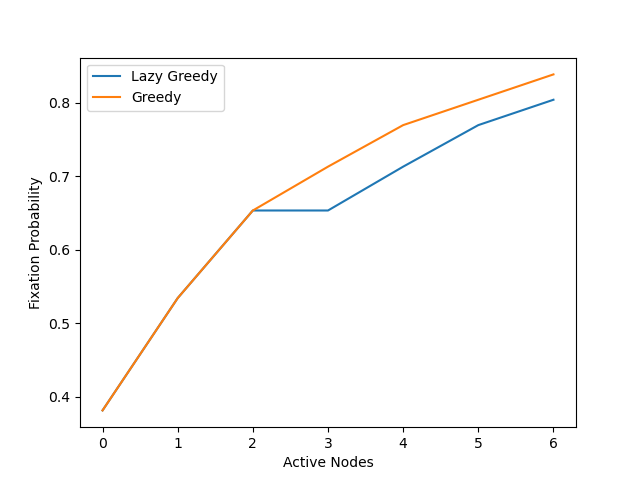
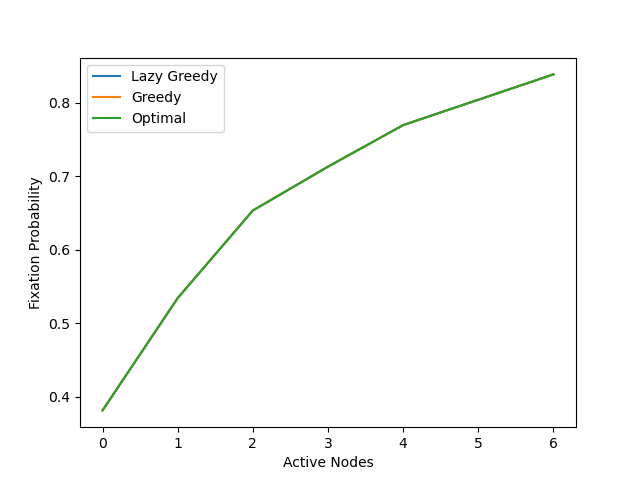
Setup experiments for comparing different fitneses for active node choice strategies for cycle graph

diff --git a/Experiment_circle.py b/Experiment_circle.py
@@ -290,14 +290,7 @@ def circle_experiments(graph_size,active_nodes,fitness,setup):
     return fixation_prob
 
 
-
-if __name__ == '__main__':
-    graph_size = 30
-    fitness = 5
-
-
-
-
+def compare_active_node_choosing_strategies(graph_size, fitness):
     setup_1 = []
     setup_2 = []
     setup_3 = []
@@ -379,3 +372,84 @@ if __name__ == '__main__':
     fixation = ["{0:10.50f}".format(x) for x in setup_3]
     f.write('Fixation probabilities: ' + ', '.join(fixation))
     f.write('\n')
+
+
+def fixation_prob_active_nodes(graph_size,setup,fitneses):
+    active_node_list = list(range(0,graph_size + 1))
+    before_time = time.time()
+    f = open('Circle_Graph_Experiments/cycle_fitness_experiment/cycle_experiments_f_' + str(fitneses)+ '_g_size_' + str(graph_size) + "_setup_" + str(setup.name) + '.txt', '+w')
+    for fitness in fitneses:
+        fixation_list = []
+        for i in range(0,graph_size + 1):
+            print('Fitness ' + str(fitness) + ' iteration ' + str(i) + ' of ' + str(graph_size))
+            fixation_prob = circle_experiments(graph_size,i,fitness,setup.value)
+            fixation_list.append(fixation_prob)
+
+        fixation = ["{0:10.50f}".format(x) for x in fixation_list]
+        f.write('Fixation probabilities: ' + ', '.join(fixation))
+        f.write('\n')
+
+        f.write("Data with setup " + str(setup.name) + " and fitness " + str(fitness) + "\n")
+        active = ["{:2d}".format(x) for x in active_node_list]
+        f.write('Active:' + ', '.join(active))
+        f.write('\n')
+
+        # Name x-axis
+        plt.xlabel('Active Nodes')
+
+        # Name y-axis
+        plt.ylabel('Fixation Probability')
+
+        plt.plot(active_node_list,fixation_list,label = str(fitness))
+
+        # Title
+        plt.title('Fixation Probability with {}'.format(setup.name))
+        plt.legend()
+    plt.show()
+
+    after_time = time.time()
+    print("Plotting took", after_time-before_time,"Seconds")
+
+    """
+
+    
+
+    fixation = ["{0:10.50f}".format(x) for x in setup_1]
+    f.write('Fixation probabilities: ' + ', '.join(fixation))
+    f.write('\n')
+
+
+    f.write("Data with setup " + str(Active_Node_Setup(2).name) + "\n")
+    active = ["{:2d}".format(x) for x in active_node_list]
+    f.write('Active:' + ', '.join(active))
+    f.write('\n')
+
+    fixation = ["{0:10.50f}".format(x) for x in setup_2]
+    f.write('Fixation probabilities: ' + ', '.join(fixation))
+    f.write('\n')
+
+
+
+    f.write("Data with setup " + str(Active_Node_Setup(3).name) + "\n")
+    active = ["{:2d}".format(x) for x in active_node_list]
+    f.write('Active:' + ', '.join(active))
+    f.write('\n')
+
+    fixation = ["{0:10.50f}".format(x) for x in setup_3]
+    f.write('Fixation probabilities: ' + ', '.join(fixation))
+    f.write('\n')
+    """
+
+
+if __name__ == '__main__':
+    graph_size = 30
+    fitness = 5
+    fitneses = [0.1, 0.2, 0.5, 1, 1.5,10,100]
+
+    #compare_active_node_choosing_strategies(graph_size,fitness)
+    setup = Active_Node_Setup(1)
+    fixation_prob_active_nodes(graph_size,setup,fitneses)
+    setup = Active_Node_Setup(2)
+    fixation_prob_active_nodes(graph_size,setup,fitneses)
+
+

diff --git a/Experimentation.py b/Experimentation.py
@@ -642,7 +642,7 @@ def compare_greedy_lazygreedy_optimal(G, fitness):
     nodes_list = list(range(len(G)))
     lazy_fixation_probabilities = []
     greedy_fixation_probabilities = []
-    optimal_fixation_probabilities = [9]
+    #optimal_fixation_probabilities = []
 
     k_nodes = len(G)
     print("k",nodes_list)
@@ -669,24 +669,25 @@ def compare_greedy_lazygreedy_optimal(G, fitness):
         numeric_fixation_prob = numeric_fixation_probability(graph,fitness)
         lazy_fixation_probabilities.append(numeric_fixation_prob)
 
-
+    """
     #Optimal
-    optimal_chooser = Active_Node_Chooser(k_nodes,G,fitness,Optimal())
-    optimal_nodes = optimal_chooser.choose_nodes()
-    print("Optimal nodes to activate list", optimal_nodes, "\n")
-    graph = G.copy()
-    for j in optimal_nodes:
-        graph.nodes[j]['active'] = True
+    for i in range(1,k_nodes + 1):
+
+        optimal_chooser = Active_Node_Chooser(i,G,fitness,Optimal())
+        optimal_nodes = optimal_chooser.choose_nodes()
+        print("Optimal nodes to activate list", optimal_nodes, "\n")
+        graph = G.copy()
+        for j in optimal_nodes:
+            graph.nodes[j]['active'] = True
 
         numeric_fixation_prob = numeric_fixation_probability(graph, fitness)
         optimal_fixation_probabilities.append(numeric_fixation_prob)
-
+    """
 
     path = "Experiments\\experiments_optimal_greedy_lazy\\graph_size_7_number_89_f_" + str(fitness)
-
     plt.plot(nodes_list,lazy_fixation_probabilities, label='Lazy Greedy')
     plt.plot(nodes_list,greedy_fixation_probabilities, label='Greedy')
-    plt.plot(nodes_list,optimal_fixation_probabilities, label='Optimal')
+    # plt.plot(nodes_list,optimal_fixation_probabilities, label='Optimal')
 
     plt.xlabel('Active Nodes')
     plt.ylabel('Fixation Probability')
@@ -694,7 +695,12 @@ def compare_greedy_lazygreedy_optimal(G, fitness):
     plt.savefig(path + ".png")
     plt.show()
 
-    fixation_list_dict = {'Lazy Greedy': lazy_fixation_probabilities,'Lazy nodes': lazy_nodes, 'Greedy':greedy_fixation_probabilities, 'Greedy nodes': greedy_nodes, 'Optimal': optimal_fixation_probabilities, 'Optimal nodes': optimal_nodes}
+    print("Lazy", lazy_fixation_probabilities)
+    print("Greedy", greedy_fixation_probabilities)
+    print("Optimal", optimal_fixation_probabilities)
+
+    #fixation_list_dict = {'Lazy Greedy': lazy_fixation_probabilities,'Lazy nodes': lazy_nodes, 'Greedy':greedy_fixation_probabilities, 'Greedy nodes': greedy_nodes, 'Optimal': optimal_fixation_probabilities, 'Optimal nodes': optimal_nodes}
+    fixation_list_dict = {'Lazy Greedy': lazy_fixation_probabilities,'Lazy nodes': lazy_nodes, 'Greedy':greedy_fixation_probabilities}
 
     df = pd.DataFrame(fixation_list_dict)
     df.to_csv(path + ".csv")
@@ -763,7 +769,7 @@ def heuristic_comparison_barabasi_albert(fitneses):
 
 
 if __name__ == "__main__":
-    fitness = 5
+    fitness = 0.2
     multiplier = 1
     # graph_size = 4
     # eps = 0.0015

diff --git a/Graphs.py b/Graphs.py
@@ -167,7 +167,7 @@ def add_weight_to_edges_markov_model(markov, graph, fitness):
     return markov
 
 
-def initialize_nodes_as_resident(G,multiplier=0):
+def initialize_nodes_as_resident(G,multiplier=1):
     # Initialize edge weights to be uniformly distributed
     for node1, node2, data in G.edges(data=True):
         data['weight'] = 1 / len(G.adj[node1])
